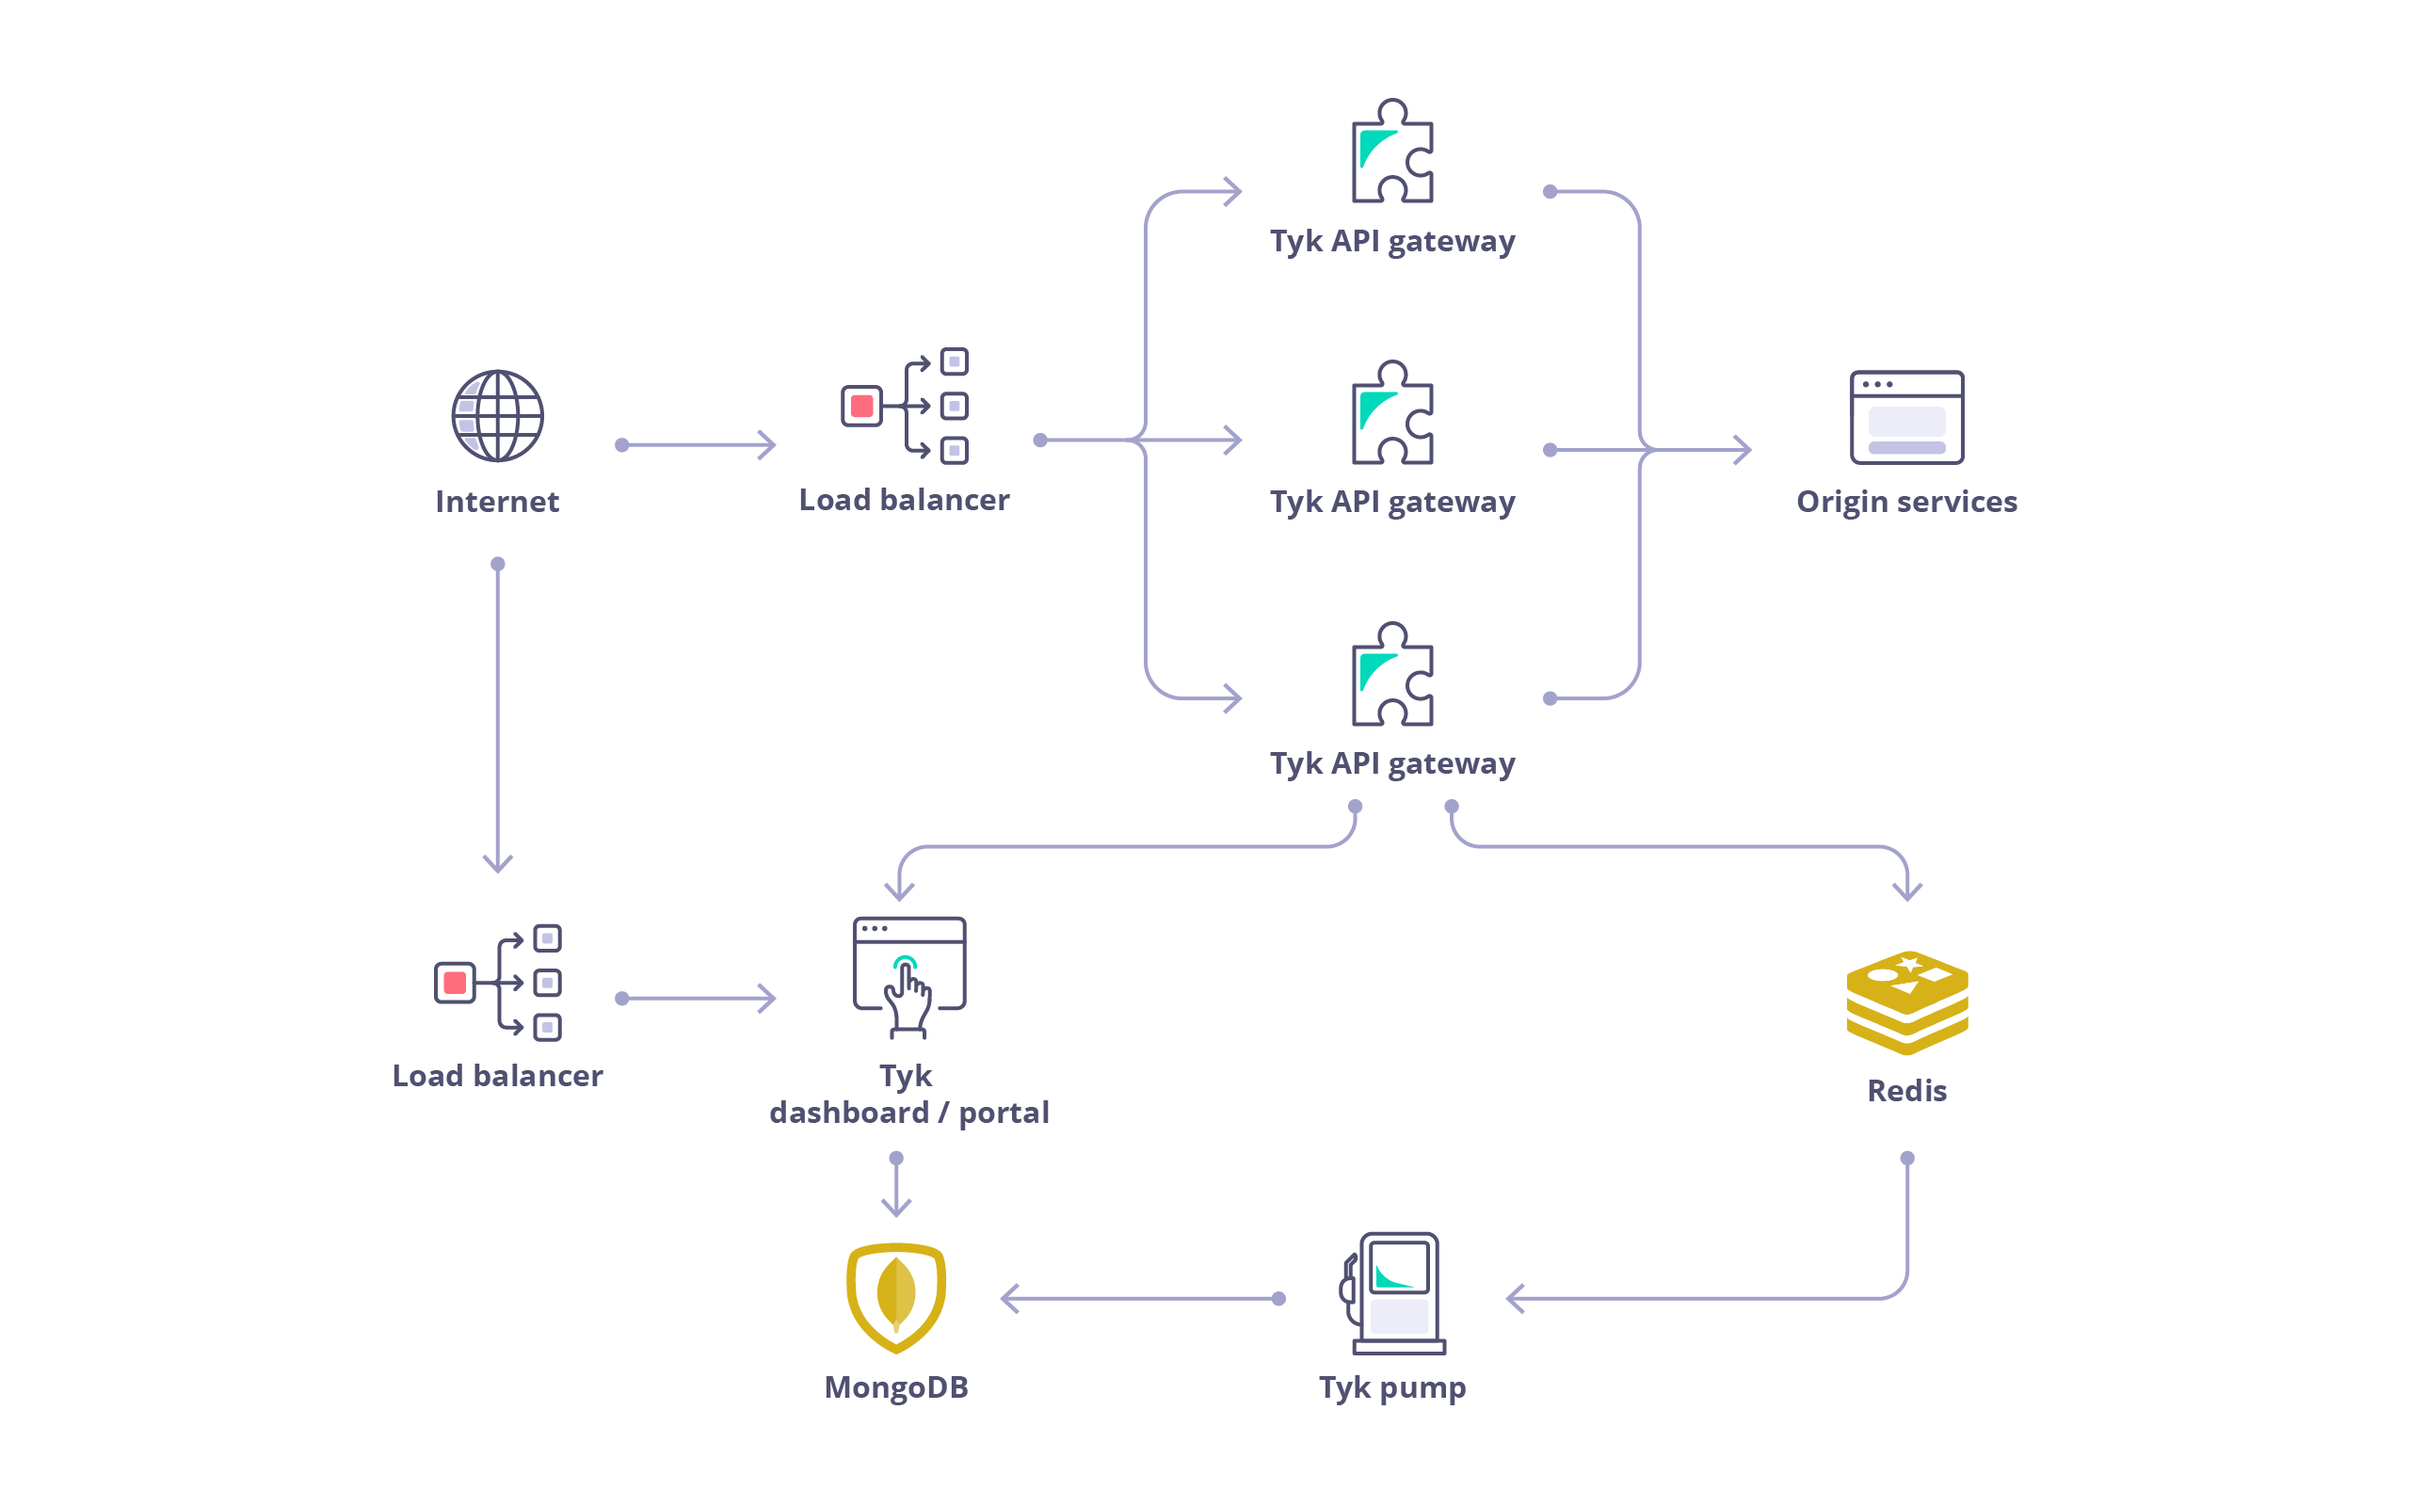
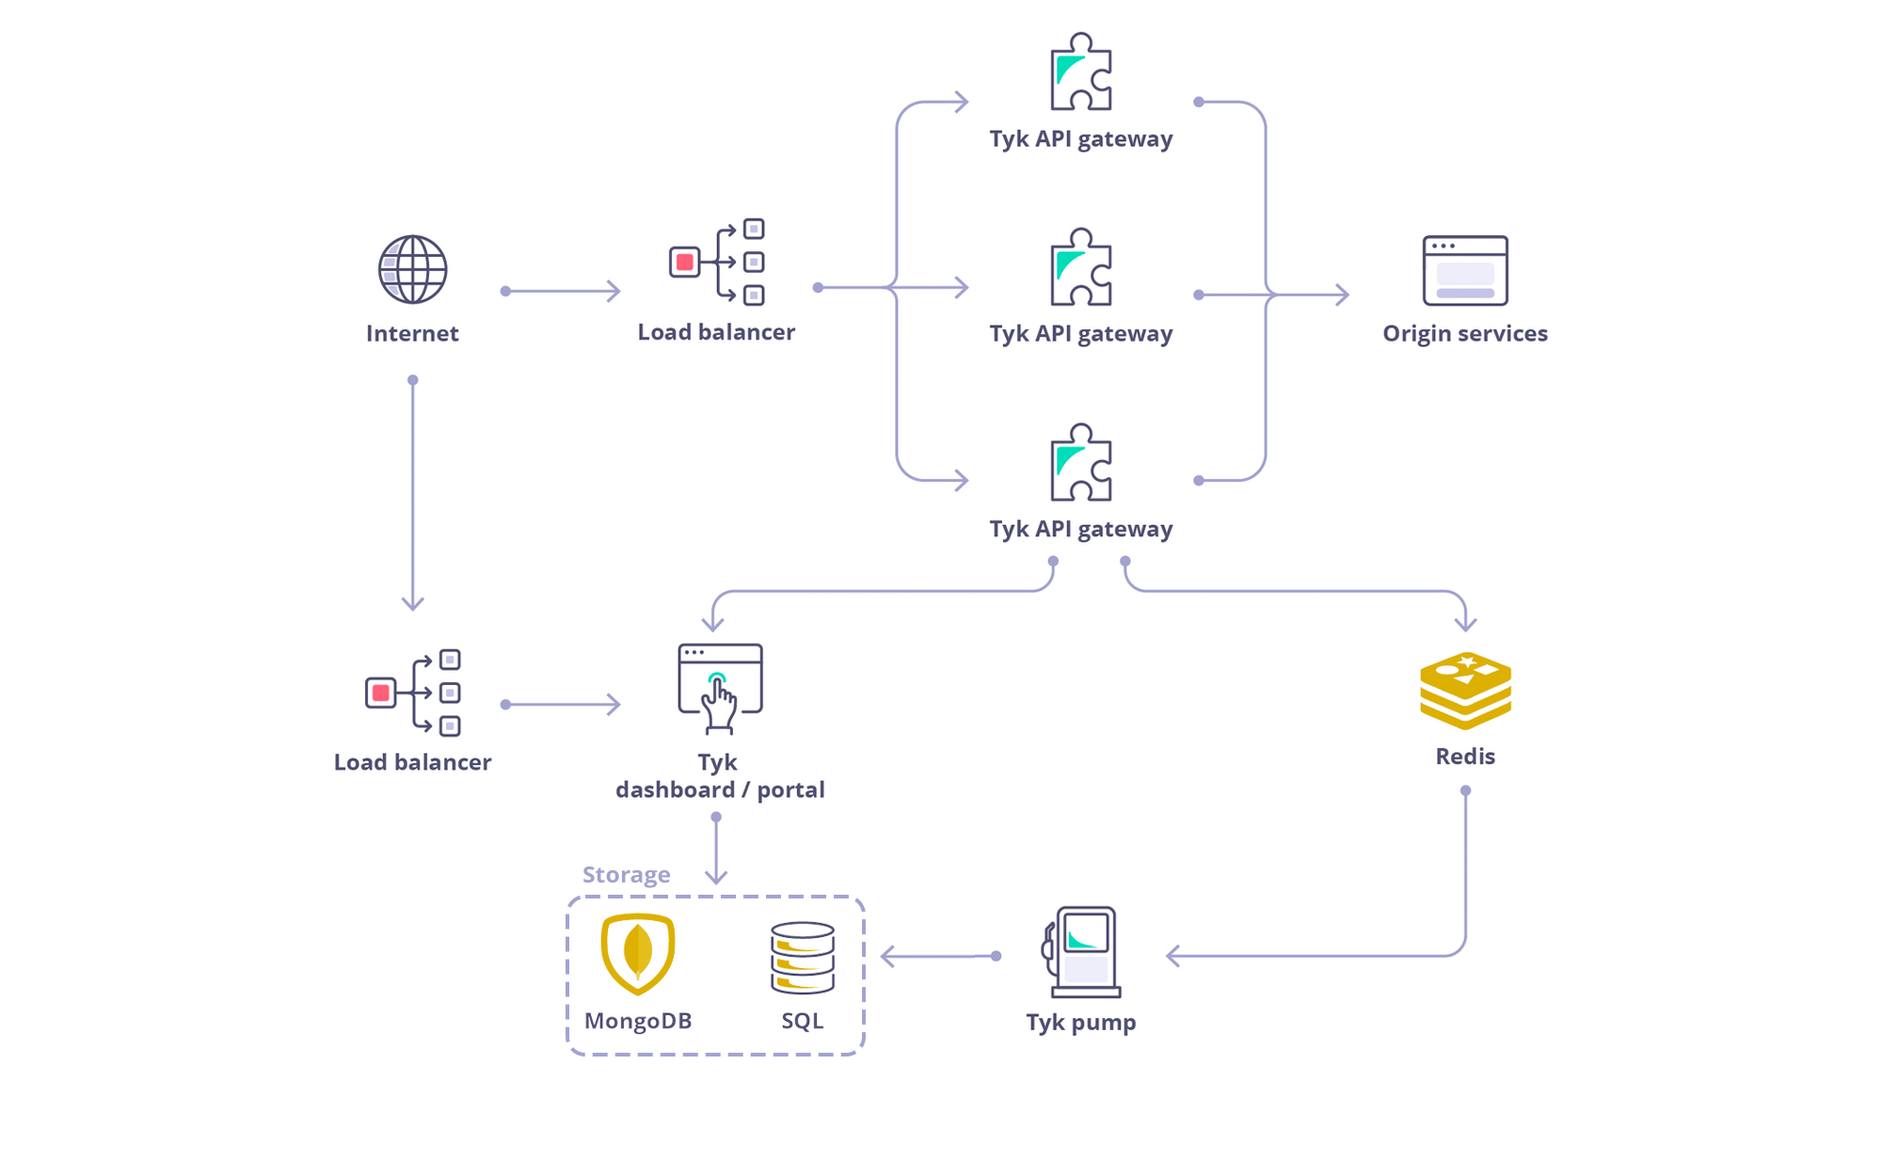
[Dx 795] Update Tyk self-managed architecture images for pump, dashboard and on-premises (#3735)
* add new images for self-managed pump & dashboard
---------

diff --git a/tyk-docs/content/tyk-dashboard.md b/tyk-docs/content/tyk-dashboard.md
@@ -19,11 +19,11 @@ The Dashboard also provides the [API Developer Portal]({{< ref "/content/tyk-dev
 
 The Dashboard also exposes the Developer Portal as a separate component of the application. This means it can either be deployed as an internet-facing application or as a purely admin application depending on how it is being used:
 
-{{< img src="/img/diagrams/diagram_docs_self-managed.png" alt="Tyk Dashboard diagram" >}}
+{{< img src="/img/diagrams/tyk-selfmanaged-architecture-dashboard.png" alt="Tyk Dashboard diagram" >}}
 
 The Dashboard is a large, granular REST API with a thin-client web front-end, and if being deployed as part of a Tyk install, serves as the main integration point instead of the Gateway API.
 
-The [Dashboard API]({{< ref "/content/tyk-dashboard-api.md" >}}) is a superset of the Gateway API, providing the same functionality, with additional features (anything that can be done in the Dashboard has an API endpoint), and offers some additional advantages:
+The [Dashboard API]({{< ref "tyk-dashboard-api.md" >}}) is a superset of the Gateway API, providing the same functionality, with additional features (anything that can be done in the Dashboard has an API endpoint), and offers some additional advantages:
 
 *   The Dashboard API has a granular structure, you can create separate clients easily
 *   The API features read/write permissions on a per-endpoint level to have extra control over integrations

diff --git a/tyk-docs/content/tyk-pump.md b/tyk-docs/content/tyk-pump.md
@@ -31,7 +31,7 @@ Here's the architecture depending on your deployment model:
 {{< tabs_start >}}
 {{< tab_start "Enterprise" >}}
 
-{{< img src="/img/diagrams/diagram_docs_pump-data-flow@2x.png" alt="Tyk Enterprise Pump Architecture" >}}
+{{< img src="/img/diagrams/tyk-selfmanaged-architecture-pump.png" alt="Tyk Enterprise Pump Architecture" >}}
 
 {{< tab_end >}}
 {{< tab_start "Open Source" >}}

diff --git a/tyk-docs/content/tyk-on-premises.md b/tyk-docs/content/tyk-on-premises.md
@@ -31,7 +31,7 @@ The full Tyk Self-Managed system consists of:
 
 
 ## Architecture
-{{< img src="/img/diagrams/diagram_docs_self-managed.png" alt="Tyk Self-Managed Archtecture" >}}
+{{< img src="/img/diagrams/diagram_docs_pump-data-flow@2x.png" alt="Tyk Self-Managed Archtecture" >}}
 
 ## Dependencies & Database Support
 
